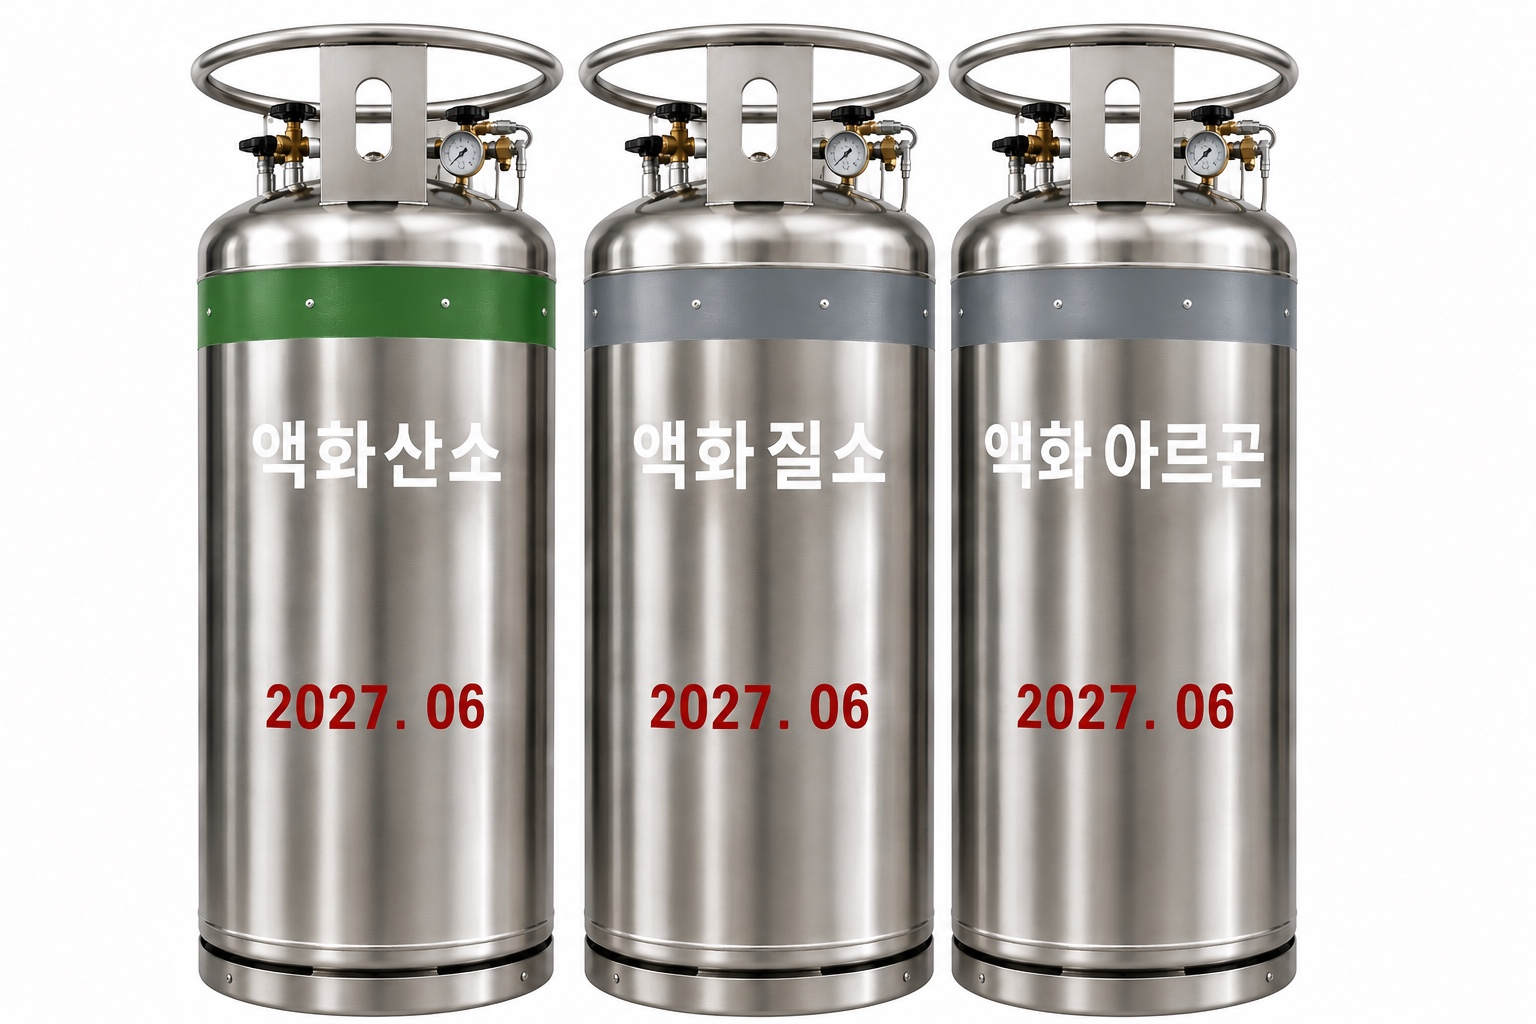
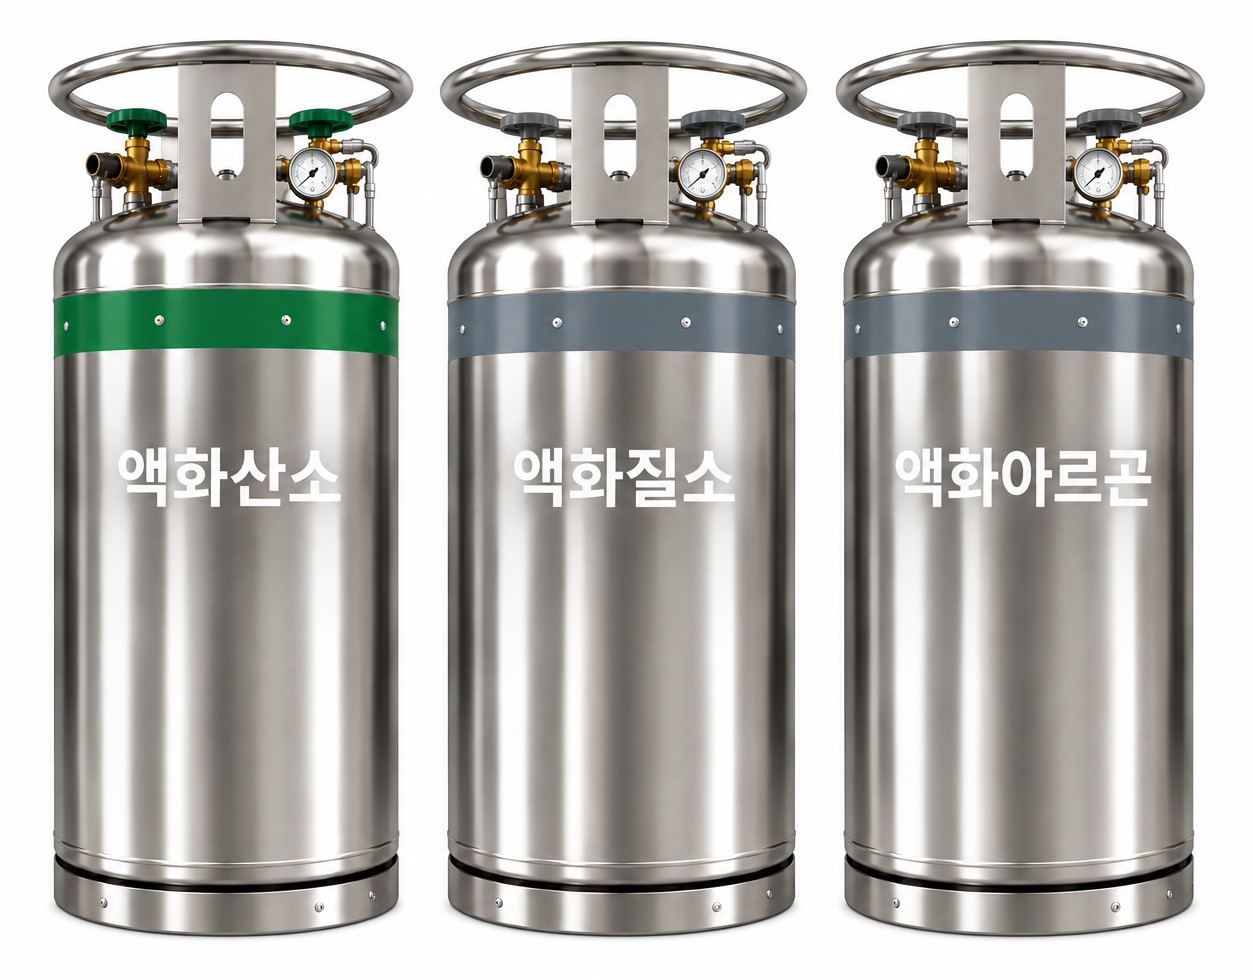
제품 라인업: 제목 하단 소개 문구 추가(참고본), 액화가스 카드 사진을 신규 3탱크 이미지로 교체(gas-liquefied.jpg ?v=20260909, 여백 트리밍)

diff --git a/products-gas.html b/products-gas.html
@@ -144,6 +144,7 @@
         <div class="section__head section__head--center">
           <span class="eyebrow">PRODUCT LINEUP</span>
           <h2 class="section__title">제품 라인업</h2>
+          <p class="section__lead">산업 현장부터 의료·식음료 분야까지, 다양한 용도에 최적화된 가스를 공급합니다.</p>
         </div>
         <div class="prodlineup prodlineup--top">
           <div class="prodlineup__nav" role="tablist" aria-label="가스 카테고리">
@@ -180,7 +181,7 @@
                     <span class="pgcard__ic pgcard__ic--img" aria-hidden="true"><img src="assets/images/site/prodtab/ic-liquefied.png?v=20260909" alt="" loading="lazy"></span>
                     <div><b class="pgcard__name">액화가스</b><span class="pgcard__lead">대용량 사용처를 위한 초저온 액화가스를 공급합니다.</span></div>
                   </div>
-                  <a class="pgcard__media" href="support.html"><img src="assets/images/site/gas-liquefied.jpg?v=20260831" alt="액화산소·액화질소·액화아르곤 저장용기" loading="lazy"></a>
+                  <a class="pgcard__media" href="support.html"><img src="assets/images/site/gas-liquefied.jpg?v=20260909" alt="액화산소·액화질소·액화아르곤 저장용기" loading="lazy"></a>
                   <p class="pgcard__text pgcard__text--gases">액화산소, 액화질소, 액화아르곤</p>
                   <p class="pgcard__use">대량 사용이 필요한 산업현장에 경제적이고 안정적으로 공급합니다.</p>
                 </li>
